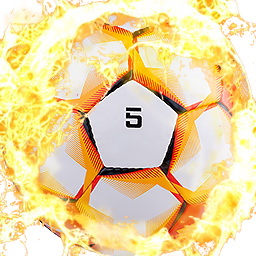
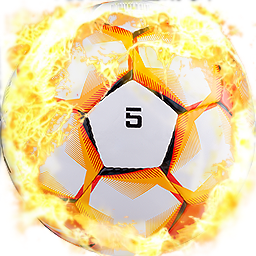
Седлал переключение одного изображения прои попадании

diff --git a/main.py b/main.py
@@ -1,5 +1,4 @@
 import pygame
-from random import randint
 
 caption = 'Турбо-мяч'
 screen_width = 800
@@ -42,25 +41,43 @@ pygame.display.flip()
 
 # Основной цикл
 running = True
+
+active_time = None
+
+pri_image = pri_target
+pri_rect = pri_image.get_rect()
+sec_image = sec_target
+sec_rect = pri_image.get_rect()
+active_image = False
+
 switch_ball = 1
+
+clock = pygame.time.Clock()
 
 while running:
 
     screen.blit(ground_image, (0, 0))
+    target_activate = False
+    activate_time = None
 
-    # for event in pygame.event.get():
-    #     if event.type == pygame.QUIT:
-    #         running = False
-    #     if event.type == pygame.MOUSEBUTTONDOWN:
-    #         x_bound = target_x + target_width
-    #         y_bound = target_y + target_height
-    #         mouse_x, mouse_y = pygame.mouse.get_pos()
-    #         if target_x < mouse_x < x_bound and target_y < mouse_y < y_bound:
-    #             screen.blit(pri_active, target_x, target_y)
+    for event in pygame.event.get():
+        if event.type == pygame.QUIT:
+            running = False
+        if event.type == pygame.MOUSEBUTTONDOWN:
+            x_bound = target_x + target_width
+            y_bound = target_y + target_height
+            mouse_x, mouse_y = pygame.mouse.get_pos()
+            if target_x < mouse_x < x_bound and target_y < mouse_y < y_bound:
+                active_image = True
+                pri_image = pri_active
+                active_time = pygame.time.get_ticks()
+                print('Попал')
+            else:
+                print('Промах')
 
-    #     if target_x < mouse_x < target_x + target_width and target_y < mouse_y < target_y + target_height:
-    #         target_x = randint(0, screen_width - target_width)
-    #         target_y = randint(0, screen_height - target_height)
+    if active_image and (pygame.time.get_ticks() - active_time >= 250):
+        active_image = False
+        pri_image = pri_target
 
     # Изменение положения мяча
     target_x += target_speed_x
@@ -80,7 +97,7 @@ while running:
 
     # Отрисовка мяча
     if switch_ball == 1:
-        pri_rotated = pygame.transform.rotate(pri_target, target_angle)
+        pri_rotated = pygame.transform.rotate(pri_image, target_angle)
         pri_act_rotated = pygame.transform.rotate(pri_active, target_angle)
         new_rectangle = pri_rotated.get_rect(center=(target_x + target_width // 2, target_y + target_height // 2))
         screen.blit(pri_rotated, new_rectangle.topleft)
@@ -92,20 +109,8 @@ while running:
         screen.blit(sec_rotated, new_rectangle.topleft)
 
     # Обновление части экрана под мячом
-    update_rectangle = pygame.Rect(target_x - 10, target_y - 10, target_width + 20, target_height + 20)
+    update_rectangle = pygame.Rect(target_x - 20, target_y - 20, target_width + 40, target_height + 40)
     pygame.display.update(update_rectangle)
-
-    for event in pygame.event.get():
-        if event.type == pygame.QUIT:
-            running = False
-        if event.type == pygame.MOUSEBUTTONDOWN:
-            x_bound = target_x + target_width
-            y_bound = target_y + target_height
-            mouse_x, mouse_y = pygame.mouse.get_pos()
-            if target_x < mouse_x < x_bound and target_y < mouse_y < y_bound:
-                print('Попал')
-            else:
-                print('Промах')
 
     # Ограничение FPS
     pygame.time.Clock().tick(30)
